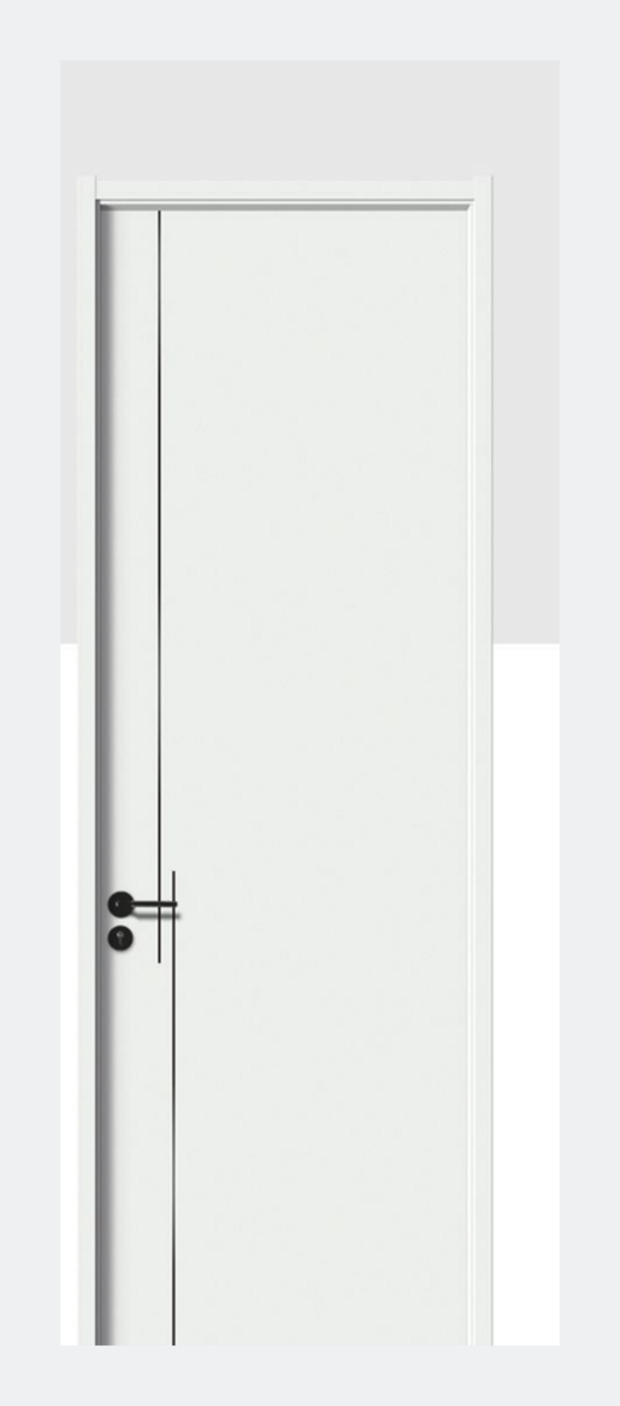
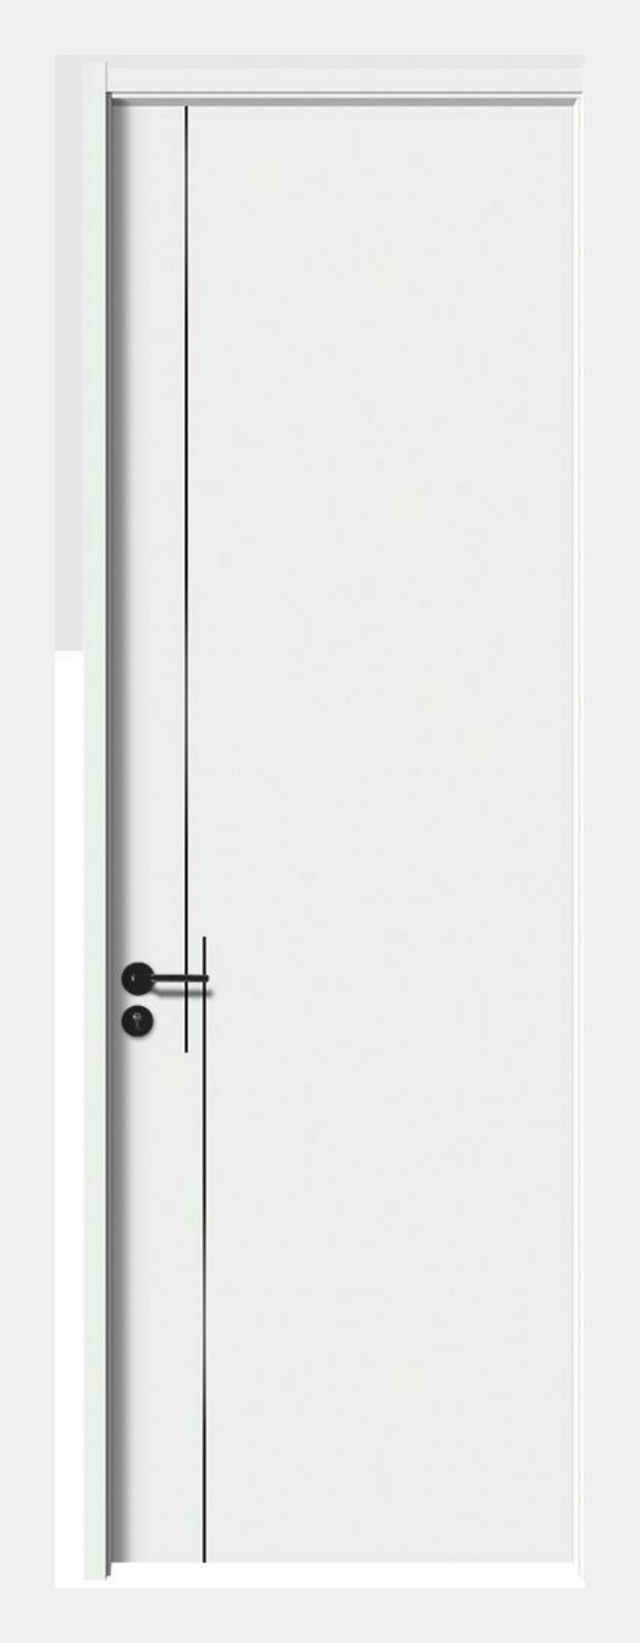
Interior doors: merge the extra finishes into one collections grid (8 total); show door cutouts full + centered on a clean panel (no separate section, not stretched)

Changed region(s): [[0.1532, 0.0306, 0.8887, 0.9787], [0.0919, 0.4282, 0.1226, 0.4587]]

diff --git a/interior-doors/index.html b/interior-doors/index.html
@@ -1,2 +1,2 @@
 <!DOCTYPE html><html lang="en"> <head><meta charset="UTF-8"><meta name="viewport" content="width=device-width, initial-scale=1"><title>Interior Doors — Luxova Home</title><meta name="description" content="Luxova Home — ready-to-assemble kitchen, bedroom storage and wardrobe cabinetry, made to your measure."><link rel="icon" href="/logo.jpg"><link rel="preconnect" href="https://fonts.googleapis.com"><link rel="preconnect" href="https://fonts.gstatic.com" crossorigin><link href="https://fonts.googleapis.com/css2?family=Fraunces:ital,opsz,wght@0,9..144,400;0,9..144,500;0,9..144,600;1,9..144,400&family=Hanken+Grotesk:wght@400;500;600;700&display=swap" rel="stylesheet"><link rel="stylesheet" href="/_astro/accessories.CYrSsuJB.css">
-<link rel="stylesheet" href="/_astro/interior-doors.Cf6K6SpJ.css"></head> <body> <nav class="nav"> <a class="brand" href="/"><img src="/logo-white.svg" alt="Luxova Home"></a> <div class="links"> <a class="" href="/c/kitchen-cabinets">Kitchen</a> <a class="" href="/c/bathroom-vanities">Bathroom Vanities</a> <a class="" href="/c/closets-wardrobes">Closet &amp; Wardrobes</a> <a class="" href="/door-styles">Cabinet Doors</a> <a class="" href="/interior-doors">Interior Doors</a> <a class="" href="/accessories">Accessories</a> <a class="" href="/member">Members</a> </div> <div class="actions"> <a class="btn-line" href="/contact">Get a price estimate</a> </div> </nav> <main> <section class="id-hero" data-astro-cid-d5el6o5c> <div class="wrap" data-astro-cid-d5el6o5c> <span class="eyebrow" data-astro-cid-d5el6o5c>Beyond the kitchen · room doors</span> <h1 data-astro-cid-d5el6o5c>Interior doors,<br data-astro-cid-d5el6o5c><em data-astro-cid-d5el6o5c>made to match.</em></h1> <p data-astro-cid-d5el6o5c>Modern flush room doors in a high-end PET wood finish — measured, made and fitted to your home, in colours and woodgrains that sit seamlessly with your cabinetry.</p> <div class="id-hero-cta" data-astro-cid-d5el6o5c> <a class="btn" href="/contact" data-astro-cid-d5el6o5c>Ask about interior doors <span class="arr" data-astro-cid-d5el6o5c>→</span></a> <a class="btn btn-ghost" href="#collections" data-astro-cid-d5el6o5c>See the collections <span class="arr" data-astro-cid-d5el6o5c>↓</span></a> </div> </div> </section>  <section class="wrap id-why" data-astro-cid-d5el6o5c> <div class="sec-head" data-astro-cid-d5el6o5c><div data-astro-cid-d5el6o5c><span class="eyebrow" data-astro-cid-d5el6o5c>Why the PET wood door</span><h2 data-astro-cid-d5el6o5c>Built to last, soft to live with</h2></div> <p class="head-note" data-astro-cid-d5el6o5c>A food-grade surface on a waterproof multilayer core — the look of timber, without the upkeep.</p> </div> <div class="why-grid" data-astro-cid-d5el6o5c> <div class="why-item" data-astro-cid-d5el6o5c> <span class="why-n" data-astro-cid-d5el6o5c>01</span> <h3 data-astro-cid-d5el6o5c>Food-grade PET finish</h3> <p data-astro-cid-d5el6o5c>A safe, environmentally friendly surface that is stable, acid- and corrosion-resistant, soft to the touch and wipes clean.</p> </div><div class="why-item" data-astro-cid-d5el6o5c> <span class="why-n" data-astro-cid-d5el6o5c>02</span> <h3 data-astro-cid-d5el6o5c>Multilayer waterproof core</h3> <p data-astro-cid-d5el6o5c>High-compression multilayer board that resists deformation and cracking, with superior waterproof performance.</p> </div><div class="why-item" data-astro-cid-d5el6o5c> <span class="why-n" data-astro-cid-d5el6o5c>03</span> <h3 data-astro-cid-d5el6o5c>Concealed soft hardware</h3> <p data-astro-cid-d5el6o5c>Hidden hinges and a quiet, soft-close action, with a flush concealed frame for clean 90° reveals.</p> </div><div class="why-item" data-astro-cid-d5el6o5c> <span class="why-n" data-astro-cid-d5el6o5c>04</span> <h3 data-astro-cid-d5el6o5c>Finishes that match</h3> <p data-astro-cid-d5el6o5c>Door colours and woodgrains chosen to sit seamlessly with your Luxova cabinetry and wardrobes.</p> </div> </div> </section>  <section id="collections" class="wrap id-coll" data-astro-cid-d5el6o5c> <div class="sec-head" data-astro-cid-d5el6o5c><div data-astro-cid-d5el6o5c><span class="eyebrow" data-astro-cid-d5el6o5c>Collections</span><h2 data-astro-cid-d5el6o5c>Our door finishes</h2></div> <p class="head-note" data-astro-cid-d5el6o5c>From bright white to deep woodgrain — each made to measure for your openings.</p> </div> <div class="coll-grid" data-astro-cid-d5el6o5c> <article class="coll-card" data-astro-cid-d5el6o5c> <div class="coll-img" data-astro-cid-d5el6o5c><img src="/interior-doors/crystal-white.jpg" alt="Crystal White interior door" loading="lazy" data-astro-cid-d5el6o5c></div> <div class="coll-meta" data-astro-cid-d5el6o5c> <h3 data-astro-cid-d5el6o5c>Crystal White</h3> <p data-astro-cid-d5el6o5c>A bright, flush white door with a slim recessed reveal — clean and contemporary in any room.</p> <p class="coll-fin" data-astro-cid-d5el6o5c>Matte white · slim-line</p> </div> </article><article class="coll-card" data-astro-cid-d5el6o5c> <div class="coll-img" data-astro-cid-d5el6o5c><img src="/interior-doors/baikal-white.jpg" alt="Baikal Frost interior door" loading="lazy" data-astro-cid-d5el6o5c></div> <div class="coll-meta" data-astro-cid-d5el6o5c> <h3 data-astro-cid-d5el6o5c>Baikal Frost</h3> <p data-astro-cid-d5el6o5c>Soft off-white with a single vertical groove — the quiet, minimal choice that suits everything.</p> <p class="coll-fin" data-astro-cid-d5el6o5c>Warm white · single reveal</p> </div> </article><article class="coll-card" data-astro-cid-d5el6o5c> <div class="coll-img" data-astro-cid-d5el6o5c><img src="/interior-doors/finland-cloud.jpg" alt="Finland Cloud interior door" loading="lazy" data-astro-cid-d5el6o5c></div> <div class="coll-meta" data-astro-cid-d5el6o5c> <h3 data-astro-cid-d5el6o5c>Finland Cloud</h3> <p data-astro-cid-d5el6o5c>A greige finish with a fine inlay line — calm, warm and easy to live with.</p> <p class="coll-fin" data-astro-cid-d5el6o5c>Greige · inlay detail</p> </div> </article><article class="coll-card" data-astro-cid-d5el6o5c> <div class="coll-img" data-astro-cid-d5el6o5c><img src="/interior-doors/cocoa-oak.jpg" alt="Cocoa Oak interior door" loading="lazy" data-astro-cid-d5el6o5c></div> <div class="coll-meta" data-astro-cid-d5el6o5c> <h3 data-astro-cid-d5el6o5c>Cocoa Oak</h3> <p data-astro-cid-d5el6o5c>Light oak woodgrain with a concealed handle — natural warmth without the upkeep of real timber.</p> <p class="coll-fin" data-astro-cid-d5el6o5c>Light oak woodgrain</p> </div> </article><article class="coll-card" data-astro-cid-d5el6o5c> <div class="coll-img" data-astro-cid-d5el6o5c><img src="/interior-doors/shangri-oak.jpg" alt="Shangri Oak interior door" loading="lazy" data-astro-cid-d5el6o5c></div> <div class="coll-meta" data-astro-cid-d5el6o5c> <h3 data-astro-cid-d5el6o5c>Shangri Oak</h3> <p data-astro-cid-d5el6o5c>A deeper, straight-grain oak that reads as furniture-grade and pairs beautifully with wardrobes.</p> <p class="coll-fin" data-astro-cid-d5el6o5c>Natural oak woodgrain</p> </div> </article><article class="coll-card" data-astro-cid-d5el6o5c> <div class="coll-img" data-astro-cid-d5el6o5c><img src="/interior-doors/morandi-grey.jpg" alt="Morandi Grey interior door" loading="lazy" data-astro-cid-d5el6o5c></div> <div class="coll-meta" data-astro-cid-d5el6o5c> <h3 data-astro-cid-d5el6o5c>Morandi Grey</h3> <p data-astro-cid-d5el6o5c>A muted grey-brown woodgrain — moody, modern and right at home with darker interiors.</p> <p class="coll-fin" data-astro-cid-d5el6o5c>Grey-brown woodgrain</p> </div> </article> </div> </section>  <section class="wrap id-more" data-astro-cid-d5el6o5c> <div class="sec-head" data-astro-cid-d5el6o5c><div data-astro-cid-d5el6o5c><span class="eyebrow" data-astro-cid-d5el6o5c>More finishes</span><h2 data-astro-cid-d5el6o5c>Three more to choose from</h2></div> <p class="head-note" data-astro-cid-d5el6o5c>The same PET wood door in extra colours — order a sample before you decide.</p> </div> <div class="mf-grid" data-astro-cid-d5el6o5c> <article class="mf-card" data-astro-cid-d5el6o5c> <div class="mf-img" data-astro-cid-d5el6o5c><img src="/interior-doors/arctic-iceberg.jpg" alt="Arctic Iceberg interior door" loading="lazy" data-astro-cid-d5el6o5c></div> <h3 data-astro-cid-d5el6o5c>Arctic Iceberg</h3> <p class="mf-fin" data-astro-cid-d5el6o5c>Crisp white · twin reveal</p> </article><article class="mf-card" data-astro-cid-d5el6o5c> <div class="mf-img" data-astro-cid-d5el6o5c><img src="/interior-doors/misty-garden.jpg" alt="Misty Garden interior door" loading="lazy" data-astro-cid-d5el6o5c></div> <h3 data-astro-cid-d5el6o5c>Misty Garden</h3> <p class="mf-fin" data-astro-cid-d5el6o5c>Soft greige · single reveal</p> </article><article class="mf-card" data-astro-cid-d5el6o5c> <div class="mf-img" data-astro-cid-d5el6o5c><img src="/interior-doors/ayers-rock.jpg" alt="Ayers Rock interior door" loading="lazy" data-astro-cid-d5el6o5c></div> <h3 data-astro-cid-d5el6o5c>Ayers Rock</h3> <p class="mf-fin" data-astro-cid-d5el6o5c>Warm grey · carved line</p> </article> </div> </section>  <section class="wrap id-config" data-astro-cid-d5el6o5c> <div class="sec-head" data-astro-cid-d5el6o5c><div data-astro-cid-d5el6o5c><span class="eyebrow" data-astro-cid-d5el6o5c>Options &amp; profiles</span><h2 data-astro-cid-d5el6o5c>Configured to the opening</h2></div> <p class="head-note" data-astro-cid-d5el6o5c>However the room is laid out, we can make the door to suit.</p> </div> <div class="cfg-grid" data-astro-cid-d5el6o5c> <div class="cfg-card" data-astro-cid-d5el6o5c><h3 data-astro-cid-d5el6o5c>Flush swing</h3><p data-astro-cid-d5el6o5c>The standard hinged door, with clean 90° reveals.</p></div><div class="cfg-card" data-astro-cid-d5el6o5c><h3 data-astro-cid-d5el6o5c>Double / French</h3><p data-astro-cid-d5el6o5c>A matched pair for wide openings and walk-throughs.</p></div><div class="cfg-card" data-astro-cid-d5el6o5c><h3 data-astro-cid-d5el6o5c>Sliding &amp; barn</h3><p data-astro-cid-d5el6o5c>Wall-mounted sliders that save floor space.</p></div><div class="cfg-card" data-astro-cid-d5el6o5c><h3 data-astro-cid-d5el6o5c>Pocket door</h3><p data-astro-cid-d5el6o5c>Slides away into the wall for a flush, space-saving finish.</p></div><div class="cfg-card" data-astro-cid-d5el6o5c><h3 data-astro-cid-d5el6o5c>Arch-top profile</h3><p data-astro-cid-d5el6o5c>A softly curved head for a more characterful opening.</p></div><div class="cfg-card" data-astro-cid-d5el6o5c><h3 data-astro-cid-d5el6o5c>Glass insert</h3><p data-astro-cid-d5el6o5c>A framed glass panel to borrow light between rooms.</p></div> </div> </section>  <section class="process" data-astro-cid-d5el6o5c> <div class="wrap" data-astro-cid-d5el6o5c> <div class="sec-head sec-head--light" data-astro-cid-d5el6o5c><div data-astro-cid-d5el6o5c><span class="eyebrow" data-astro-cid-d5el6o5c>How it works</span><h2 data-astro-cid-d5el6o5c>Measured, made &amp; fitted</h2></div> <a href="/contact" data-astro-cid-d5el6o5c>Start your project</a> </div> <ol class="proc-track" data-astro-cid-d5el6o5c> <li class="proc" data-astro-cid-d5el6o5c><span class="proc-n" data-astro-cid-d5el6o5c>01</span><h3 data-astro-cid-d5el6o5c>Measure</h3><p data-astro-cid-d5el6o5c>We measure every opening on site for a precise, gap-free fit.</p></li><li class="proc" data-astro-cid-d5el6o5c><span class="proc-n" data-astro-cid-d5el6o5c>02</span><h3 data-astro-cid-d5el6o5c>Make</h3><p data-astro-cid-d5el6o5c>Doors and concealed frames are built to your sizes and finish.</p></li><li class="proc" data-astro-cid-d5el6o5c><span class="proc-n" data-astro-cid-d5el6o5c>03</span><h3 data-astro-cid-d5el6o5c>Fit</h3><p data-astro-cid-d5el6o5c>Professional installation with soft, quiet hardware and a final check.</p></li> </ol> </div> </section>  <section class="id-cta" data-astro-cid-d5el6o5c> <div class="wrap" data-astro-cid-d5el6o5c> <h2 data-astro-cid-d5el6o5c>Doors and cabinetry, from one supplier.</h2> <p data-astro-cid-d5el6o5c>Order your interior doors alongside your kitchen, vanities and wardrobes — measured together, finished to match and fitted by one team. Tell us your project and we'll quote it as one.</p> <a class="btn" href="/contact" data-astro-cid-d5el6o5c>Get a free quote <span class="arr" data-astro-cid-d5el6o5c>→</span></a> </div> </section>  </main> <footer class="site-footer"> <div class="cols"> <div> <img class="logo" src="/logo-white.svg" alt="Luxova Home"> <p class="blurb">Custom &amp; ready-to-assemble cabinetry — kitchens, bathroom vanities, closets &amp; wardrobes. Made in the USA, with warehouses across the country.</p> <p class="blurb"><a href="mailto:info@luxovahome.com">info@luxovahome.com</a><br>U.S.-based · warehouses nationwide</p> </div> <div> <h4>Shop</h4> <a href="/c/kitchen-cabinets">Kitchen Cabinets</a> <a href="/c/bathroom-vanities">Bathroom Vanities</a> <a href="/c/closets-wardrobes">Closet &amp; Wardrobes</a> <a href="/door-styles">Cabinet Door Styles</a> <a href="/interior-doors">Interior Doors</a> <a href="/accessories">Accessories</a> </div> <div> <h4>Help</h4> <a href="/contact">Get a free design</a> <a href="/contact">Order door samples</a> <a href="/member">Become a member</a> <a href="/luxova-catalog.pdf" download>Download catalog</a> <a href="/contact">Contact us</a> </div> <div> <h4>Policies</h4> <a href="/policies#shipping">Shipping &amp; Returns</a> <a href="/policies#warranty">Warranty</a> <a href="/policies#privacy">Privacy</a> </div> </div> <div class="copy"><span>© 2026 Luxova Home</span><span>Ready-to-assemble cabinetry, made to measure.</span></div> </footer> </body></html>
+<link rel="stylesheet" href="/_astro/interior-doors.BqZQjv2A.css"></head> <body> <nav class="nav"> <a class="brand" href="/"><img src="/logo-white.svg" alt="Luxova Home"></a> <div class="links"> <a class="" href="/c/kitchen-cabinets">Kitchen</a> <a class="" href="/c/bathroom-vanities">Bathroom Vanities</a> <a class="" href="/c/closets-wardrobes">Closet &amp; Wardrobes</a> <a class="" href="/door-styles">Cabinet Doors</a> <a class="" href="/interior-doors">Interior Doors</a> <a class="" href="/accessories">Accessories</a> <a class="" href="/member">Members</a> </div> <div class="actions"> <a class="btn-line" href="/contact">Get a price estimate</a> </div> </nav> <main> <section class="id-hero" data-astro-cid-d5el6o5c> <div class="wrap" data-astro-cid-d5el6o5c> <span class="eyebrow" data-astro-cid-d5el6o5c>Beyond the kitchen · room doors</span> <h1 data-astro-cid-d5el6o5c>Interior doors,<br data-astro-cid-d5el6o5c><em data-astro-cid-d5el6o5c>made to match.</em></h1> <p data-astro-cid-d5el6o5c>Modern flush room doors in a high-end PET wood finish — measured, made and fitted to your home, in colours and woodgrains that sit seamlessly with your cabinetry.</p> <div class="id-hero-cta" data-astro-cid-d5el6o5c> <a class="btn" href="/contact" data-astro-cid-d5el6o5c>Ask about interior doors <span class="arr" data-astro-cid-d5el6o5c>→</span></a> <a class="btn btn-ghost" href="#collections" data-astro-cid-d5el6o5c>See the collections <span class="arr" data-astro-cid-d5el6o5c>↓</span></a> </div> </div> </section>  <section class="wrap id-why" data-astro-cid-d5el6o5c> <div class="sec-head" data-astro-cid-d5el6o5c><div data-astro-cid-d5el6o5c><span class="eyebrow" data-astro-cid-d5el6o5c>Why the PET wood door</span><h2 data-astro-cid-d5el6o5c>Built to last, soft to live with</h2></div> <p class="head-note" data-astro-cid-d5el6o5c>A food-grade surface on a waterproof multilayer core — the look of timber, without the upkeep.</p> </div> <div class="why-grid" data-astro-cid-d5el6o5c> <div class="why-item" data-astro-cid-d5el6o5c> <span class="why-n" data-astro-cid-d5el6o5c>01</span> <h3 data-astro-cid-d5el6o5c>Food-grade PET finish</h3> <p data-astro-cid-d5el6o5c>A safe, environmentally friendly surface that is stable, acid- and corrosion-resistant, soft to the touch and wipes clean.</p> </div><div class="why-item" data-astro-cid-d5el6o5c> <span class="why-n" data-astro-cid-d5el6o5c>02</span> <h3 data-astro-cid-d5el6o5c>Multilayer waterproof core</h3> <p data-astro-cid-d5el6o5c>High-compression multilayer board that resists deformation and cracking, with superior waterproof performance.</p> </div><div class="why-item" data-astro-cid-d5el6o5c> <span class="why-n" data-astro-cid-d5el6o5c>03</span> <h3 data-astro-cid-d5el6o5c>Concealed soft hardware</h3> <p data-astro-cid-d5el6o5c>Hidden hinges and a quiet, soft-close action, with a flush concealed frame for clean 90° reveals.</p> </div><div class="why-item" data-astro-cid-d5el6o5c> <span class="why-n" data-astro-cid-d5el6o5c>04</span> <h3 data-astro-cid-d5el6o5c>Finishes that match</h3> <p data-astro-cid-d5el6o5c>Door colours and woodgrains chosen to sit seamlessly with your Luxova cabinetry and wardrobes.</p> </div> </div> </section>  <section id="collections" class="wrap id-coll" data-astro-cid-d5el6o5c> <div class="sec-head" data-astro-cid-d5el6o5c><div data-astro-cid-d5el6o5c><span class="eyebrow" data-astro-cid-d5el6o5c>Collections</span><h2 data-astro-cid-d5el6o5c>Our door finishes</h2></div> <p class="head-note" data-astro-cid-d5el6o5c>From bright white to deep woodgrain — each made to measure for your openings.</p> </div> <div class="coll-grid" data-astro-cid-d5el6o5c> <article class="coll-card" data-astro-cid-d5el6o5c> <div class="coll-img " data-astro-cid-d5el6o5c><img src="/interior-doors/crystal-white.jpg" alt="Crystal White interior door" loading="lazy" data-astro-cid-d5el6o5c></div> <div class="coll-meta" data-astro-cid-d5el6o5c> <h3 data-astro-cid-d5el6o5c>Crystal White</h3> <p data-astro-cid-d5el6o5c>A bright, flush white door with a slim recessed reveal — clean and contemporary in any room.</p> <p class="coll-fin" data-astro-cid-d5el6o5c>Matte white · slim-line</p> </div> </article><article class="coll-card" data-astro-cid-d5el6o5c> <div class="coll-img " data-astro-cid-d5el6o5c><img src="/interior-doors/baikal-white.jpg" alt="Baikal Frost interior door" loading="lazy" data-astro-cid-d5el6o5c></div> <div class="coll-meta" data-astro-cid-d5el6o5c> <h3 data-astro-cid-d5el6o5c>Baikal Frost</h3> <p data-astro-cid-d5el6o5c>Soft off-white with a single vertical groove — the quiet, minimal choice that suits everything.</p> <p class="coll-fin" data-astro-cid-d5el6o5c>Warm white · single reveal</p> </div> </article><article class="coll-card" data-astro-cid-d5el6o5c> <div class="coll-img " data-astro-cid-d5el6o5c><img src="/interior-doors/finland-cloud.jpg" alt="Finland Cloud interior door" loading="lazy" data-astro-cid-d5el6o5c></div> <div class="coll-meta" data-astro-cid-d5el6o5c> <h3 data-astro-cid-d5el6o5c>Finland Cloud</h3> <p data-astro-cid-d5el6o5c>A greige finish with a fine inlay line — calm, warm and easy to live with.</p> <p class="coll-fin" data-astro-cid-d5el6o5c>Greige · inlay detail</p> </div> </article><article class="coll-card" data-astro-cid-d5el6o5c> <div class="coll-img " data-astro-cid-d5el6o5c><img src="/interior-doors/cocoa-oak.jpg" alt="Cocoa Oak interior door" loading="lazy" data-astro-cid-d5el6o5c></div> <div class="coll-meta" data-astro-cid-d5el6o5c> <h3 data-astro-cid-d5el6o5c>Cocoa Oak</h3> <p data-astro-cid-d5el6o5c>Light oak woodgrain with a concealed handle — natural warmth without the upkeep of real timber.</p> <p class="coll-fin" data-astro-cid-d5el6o5c>Light oak woodgrain</p> </div> </article><article class="coll-card" data-astro-cid-d5el6o5c> <div class="coll-img " data-astro-cid-d5el6o5c><img src="/interior-doors/shangri-oak.jpg" alt="Shangri Oak interior door" loading="lazy" data-astro-cid-d5el6o5c></div> <div class="coll-meta" data-astro-cid-d5el6o5c> <h3 data-astro-cid-d5el6o5c>Shangri Oak</h3> <p data-astro-cid-d5el6o5c>A deeper, straight-grain oak that reads as furniture-grade and pairs beautifully with wardrobes.</p> <p class="coll-fin" data-astro-cid-d5el6o5c>Natural oak woodgrain</p> </div> </article><article class="coll-card" data-astro-cid-d5el6o5c> <div class="coll-img " data-astro-cid-d5el6o5c><img src="/interior-doors/morandi-grey.jpg" alt="Morandi Grey interior door" loading="lazy" data-astro-cid-d5el6o5c></div> <div class="coll-meta" data-astro-cid-d5el6o5c> <h3 data-astro-cid-d5el6o5c>Morandi Grey</h3> <p data-astro-cid-d5el6o5c>A muted grey-brown woodgrain — moody, modern and right at home with darker interiors.</p> <p class="coll-fin" data-astro-cid-d5el6o5c>Grey-brown woodgrain</p> </div> </article><article class="coll-card" data-astro-cid-d5el6o5c> <div class="coll-img is-cutout" data-astro-cid-d5el6o5c><img src="/interior-doors/arctic-iceberg.jpg" alt="Arctic Iceberg interior door" loading="lazy" data-astro-cid-d5el6o5c></div> <div class="coll-meta" data-astro-cid-d5el6o5c> <h3 data-astro-cid-d5el6o5c>Arctic Iceberg</h3> <p data-astro-cid-d5el6o5c>A crisp matte white with twin vertical reveals — bright and gallery-clean.</p> <p class="coll-fin" data-astro-cid-d5el6o5c>Crisp white · twin reveal</p> </div> </article><article class="coll-card" data-astro-cid-d5el6o5c> <div class="coll-img is-cutout" data-astro-cid-d5el6o5c><img src="/interior-doors/ayers-rock.jpg" alt="Ayers Rock interior door" loading="lazy" data-astro-cid-d5el6o5c></div> <div class="coll-meta" data-astro-cid-d5el6o5c> <h3 data-astro-cid-d5el6o5c>Ayers Rock</h3> <p data-astro-cid-d5el6o5c>A warm mid-grey with a carved black line — modern with a little edge.</p> <p class="coll-fin" data-astro-cid-d5el6o5c>Warm grey · carved line</p> </div> </article> </div> </section>  <section class="wrap id-config" data-astro-cid-d5el6o5c> <div class="sec-head" data-astro-cid-d5el6o5c><div data-astro-cid-d5el6o5c><span class="eyebrow" data-astro-cid-d5el6o5c>Options &amp; profiles</span><h2 data-astro-cid-d5el6o5c>Configured to the opening</h2></div> <p class="head-note" data-astro-cid-d5el6o5c>However the room is laid out, we can make the door to suit.</p> </div> <div class="cfg-grid" data-astro-cid-d5el6o5c> <div class="cfg-card" data-astro-cid-d5el6o5c><h3 data-astro-cid-d5el6o5c>Flush swing</h3><p data-astro-cid-d5el6o5c>The standard hinged door, with clean 90° reveals.</p></div><div class="cfg-card" data-astro-cid-d5el6o5c><h3 data-astro-cid-d5el6o5c>Double / French</h3><p data-astro-cid-d5el6o5c>A matched pair for wide openings and walk-throughs.</p></div><div class="cfg-card" data-astro-cid-d5el6o5c><h3 data-astro-cid-d5el6o5c>Sliding &amp; barn</h3><p data-astro-cid-d5el6o5c>Wall-mounted sliders that save floor space.</p></div><div class="cfg-card" data-astro-cid-d5el6o5c><h3 data-astro-cid-d5el6o5c>Pocket door</h3><p data-astro-cid-d5el6o5c>Slides away into the wall for a flush, space-saving finish.</p></div><div class="cfg-card" data-astro-cid-d5el6o5c><h3 data-astro-cid-d5el6o5c>Arch-top profile</h3><p data-astro-cid-d5el6o5c>A softly curved head for a more characterful opening.</p></div><div class="cfg-card" data-astro-cid-d5el6o5c><h3 data-astro-cid-d5el6o5c>Glass insert</h3><p data-astro-cid-d5el6o5c>A framed glass panel to borrow light between rooms.</p></div> </div> </section>  <section class="process" data-astro-cid-d5el6o5c> <div class="wrap" data-astro-cid-d5el6o5c> <div class="sec-head sec-head--light" data-astro-cid-d5el6o5c><div data-astro-cid-d5el6o5c><span class="eyebrow" data-astro-cid-d5el6o5c>How it works</span><h2 data-astro-cid-d5el6o5c>Measured, made &amp; fitted</h2></div> <a href="/contact" data-astro-cid-d5el6o5c>Start your project</a> </div> <ol class="proc-track" data-astro-cid-d5el6o5c> <li class="proc" data-astro-cid-d5el6o5c><span class="proc-n" data-astro-cid-d5el6o5c>01</span><h3 data-astro-cid-d5el6o5c>Measure</h3><p data-astro-cid-d5el6o5c>We measure every opening on site for a precise, gap-free fit.</p></li><li class="proc" data-astro-cid-d5el6o5c><span class="proc-n" data-astro-cid-d5el6o5c>02</span><h3 data-astro-cid-d5el6o5c>Make</h3><p data-astro-cid-d5el6o5c>Doors and concealed frames are built to your sizes and finish.</p></li><li class="proc" data-astro-cid-d5el6o5c><span class="proc-n" data-astro-cid-d5el6o5c>03</span><h3 data-astro-cid-d5el6o5c>Fit</h3><p data-astro-cid-d5el6o5c>Professional installation with soft, quiet hardware and a final check.</p></li> </ol> </div> </section>  <section class="id-cta" data-astro-cid-d5el6o5c> <div class="wrap" data-astro-cid-d5el6o5c> <h2 data-astro-cid-d5el6o5c>Doors and cabinetry, from one supplier.</h2> <p data-astro-cid-d5el6o5c>Order your interior doors alongside your kitchen, vanities and wardrobes — measured together, finished to match and fitted by one team. Tell us your project and we'll quote it as one.</p> <a class="btn" href="/contact" data-astro-cid-d5el6o5c>Get a free quote <span class="arr" data-astro-cid-d5el6o5c>→</span></a> </div> </section>  </main> <footer class="site-footer"> <div class="cols"> <div> <img class="logo" src="/logo-white.svg" alt="Luxova Home"> <p class="blurb">Custom &amp; ready-to-assemble cabinetry — kitchens, bathroom vanities, closets &amp; wardrobes. Made in the USA, with warehouses across the country.</p> <p class="blurb"><a href="mailto:info@luxovahome.com">info@luxovahome.com</a><br>U.S.-based · warehouses nationwide</p> </div> <div> <h4>Shop</h4> <a href="/c/kitchen-cabinets">Kitchen Cabinets</a> <a href="/c/bathroom-vanities">Bathroom Vanities</a> <a href="/c/closets-wardrobes">Closet &amp; Wardrobes</a> <a href="/door-styles">Cabinet Door Styles</a> <a href="/interior-doors">Interior Doors</a> <a href="/accessories">Accessories</a> </div> <div> <h4>Help</h4> <a href="/contact">Get a free design</a> <a href="/contact">Order door samples</a> <a href="/member">Become a member</a> <a href="/luxova-catalog.pdf" download>Download catalog</a> <a href="/contact">Contact us</a> </div> <div> <h4>Policies</h4> <a href="/policies#shipping">Shipping &amp; Returns</a> <a href="/policies#warranty">Warranty</a> <a href="/policies#privacy">Privacy</a> </div> </div> <div class="copy"><span>© 2026 Luxova Home</span><span>Ready-to-assemble cabinetry, made to measure.</span></div> </footer> </body></html>

diff --git a/_astro/interior-doors.BqZQjv2A.css b/_astro/interior-doors.BqZQjv2A.css
@@ -1,0 +1,1 @@
+.eyebrow[data-astro-cid-d5el6o5c]{display:block}.id-hero[data-astro-cid-d5el6o5c]{background:var(--panel);border-bottom:1px solid var(--line);padding:clamp(56px,8vw,104px) 0 clamp(48px,6vw,80px)}.id-hero[data-astro-cid-d5el6o5c] .eyebrow[data-astro-cid-d5el6o5c]{margin-bottom:18px}.id-hero[data-astro-cid-d5el6o5c] h1[data-astro-cid-d5el6o5c]{font-size:clamp(40px,6.5vw,86px);line-height:.98}.id-hero[data-astro-cid-d5el6o5c] h1[data-astro-cid-d5el6o5c] em[data-astro-cid-d5el6o5c]{font-style:italic;color:var(--gold)}.id-hero[data-astro-cid-d5el6o5c] p[data-astro-cid-d5el6o5c]{color:var(--soft);font-size:clamp(17px,1.5vw,20px);max-width:56ch;margin:26px 0 0}.id-hero-cta[data-astro-cid-d5el6o5c]{display:flex;flex-wrap:wrap;gap:14px;margin-top:34px}section[data-astro-cid-d5el6o5c]{scroll-margin-top:80px}.id-why[data-astro-cid-d5el6o5c],.id-coll[data-astro-cid-d5el6o5c]{padding-top:clamp(56px,7vw,96px)}.head-note[data-astro-cid-d5el6o5c]{color:var(--soft);font-size:15px;max-width:34ch;margin:0}.sec-head--light[data-astro-cid-d5el6o5c] .head-note[data-astro-cid-d5el6o5c]{color:#9fb0c0}.why-grid[data-astro-cid-d5el6o5c]{display:grid;grid-template-columns:repeat(4,1fr);gap:1px;background:var(--line);border:1px solid var(--line)}.why-item[data-astro-cid-d5el6o5c]{background:#fff;padding:30px 26px 34px}.why-n[data-astro-cid-d5el6o5c]{font-family:var(--serif);font-size:15px;color:var(--gold);letter-spacing:.08em}.why-item[data-astro-cid-d5el6o5c] h3[data-astro-cid-d5el6o5c]{font-family:var(--serif);font-weight:400;font-size:21px;margin:12px 0 10px;letter-spacing:-.01em}.why-item[data-astro-cid-d5el6o5c] p[data-astro-cid-d5el6o5c]{color:var(--soft);font-size:14.5px;line-height:1.55;margin:0}@media (max-width:900px){.why-grid[data-astro-cid-d5el6o5c]{grid-template-columns:1fr 1fr}}@media (max-width:520px){.why-grid[data-astro-cid-d5el6o5c]{grid-template-columns:1fr}}.coll-grid[data-astro-cid-d5el6o5c]{display:grid;grid-template-columns:repeat(3,1fr);gap:36px 28px}.coll-img[data-astro-cid-d5el6o5c]{aspect-ratio:4/3.4;background:var(--panel);border:1px solid var(--line);overflow:hidden;box-shadow:0 16px 38px -26px #0e274073}.coll-img[data-astro-cid-d5el6o5c] img[data-astro-cid-d5el6o5c]{width:100%;height:100%;object-fit:cover;display:block;transition:transform .9s cubic-bezier(.2,.7,.2,1)}.coll-card[data-astro-cid-d5el6o5c]:hover .coll-img[data-astro-cid-d5el6o5c] img[data-astro-cid-d5el6o5c]{transform:scale(1.04)}.coll-img[data-astro-cid-d5el6o5c].is-cutout{background:#eef0f1}.coll-img[data-astro-cid-d5el6o5c].is-cutout img[data-astro-cid-d5el6o5c]{object-fit:contain}.coll-meta[data-astro-cid-d5el6o5c] h3[data-astro-cid-d5el6o5c]{font-family:var(--serif);font-weight:400;font-size:24px;margin:18px 0 0;letter-spacing:-.01em}.coll-meta[data-astro-cid-d5el6o5c] p[data-astro-cid-d5el6o5c]{color:var(--soft);font-size:14.5px;line-height:1.55;margin:8px 0 0}.coll-fin[data-astro-cid-d5el6o5c]{color:var(--gold);font-size:12.5px;letter-spacing:.02em;text-transform:uppercase;font-weight:600}@media (max-width:860px){.coll-grid[data-astro-cid-d5el6o5c]{grid-template-columns:1fr 1fr}}@media (max-width:560px){.coll-grid[data-astro-cid-d5el6o5c]{grid-template-columns:1fr}}.id-config[data-astro-cid-d5el6o5c]{padding-top:clamp(52px,6vw,84px)}.cfg-grid[data-astro-cid-d5el6o5c]{display:grid;grid-template-columns:repeat(3,1fr);gap:1px;background:var(--line);border:1px solid var(--line)}.cfg-card[data-astro-cid-d5el6o5c]{background:#fff;padding:26px 24px 28px}.cfg-card[data-astro-cid-d5el6o5c] h3[data-astro-cid-d5el6o5c]{font-family:var(--serif);font-weight:400;font-size:20px;margin:0 0 8px}.cfg-card[data-astro-cid-d5el6o5c] p[data-astro-cid-d5el6o5c]{color:var(--soft);font-size:14px;line-height:1.55;margin:0}@media (max-width:760px){.cfg-grid[data-astro-cid-d5el6o5c]{grid-template-columns:1fr 1fr}}@media (max-width:460px){.cfg-grid[data-astro-cid-d5el6o5c]{grid-template-columns:1fr}}.process[data-astro-cid-d5el6o5c]{margin-top:clamp(56px,7vw,96px);background:var(--navy);color:#cdd7e1;padding:clamp(56px,7vw,92px) 0}.process[data-astro-cid-d5el6o5c] h2[data-astro-cid-d5el6o5c]{color:#fff}.process[data-astro-cid-d5el6o5c] .eyebrow[data-astro-cid-d5el6o5c]{color:var(--gold-lt);display:block;margin-bottom:10px}.process[data-astro-cid-d5el6o5c] .sec-head[data-astro-cid-d5el6o5c] a[data-astro-cid-d5el6o5c]{color:var(--gold-lt);border-bottom:1px solid var(--gold-lt)}.proc-track[data-astro-cid-d5el6o5c]{list-style:none;margin:0;padding:0;display:grid;grid-template-columns:repeat(3,1fr);gap:0}.proc[data-astro-cid-d5el6o5c]{padding:0 28px;border-left:1px solid rgba(255,255,255,.14)}.proc[data-astro-cid-d5el6o5c]:first-child{border-left:0;padding-left:0}.proc-n[data-astro-cid-d5el6o5c]{font-family:var(--serif);font-size:26px;color:var(--gold-lt)}.proc[data-astro-cid-d5el6o5c] h3[data-astro-cid-d5el6o5c]{color:#fff;font-size:18px;font-weight:600;margin:12px 0 8px}.proc[data-astro-cid-d5el6o5c] p[data-astro-cid-d5el6o5c]{color:#9fb0c0;font-size:14px;line-height:1.5;margin:0}@media (max-width:640px){.proc-track[data-astro-cid-d5el6o5c]{grid-template-columns:1fr;gap:26px}.proc[data-astro-cid-d5el6o5c]{border-left:0;padding-left:0}}.id-cta[data-astro-cid-d5el6o5c]{background:var(--panel);border-top:1px solid var(--line);margin-top:clamp(40px,5vw,72px);padding:clamp(56px,7vw,96px) 0;text-align:center}.id-cta[data-astro-cid-d5el6o5c] h2[data-astro-cid-d5el6o5c]{font-size:clamp(28px,3.4vw,44px);font-weight:400}.id-cta[data-astro-cid-d5el6o5c] p[data-astro-cid-d5el6o5c]{color:var(--soft);font-size:18px;max-width:56ch;margin:18px auto 30px}
